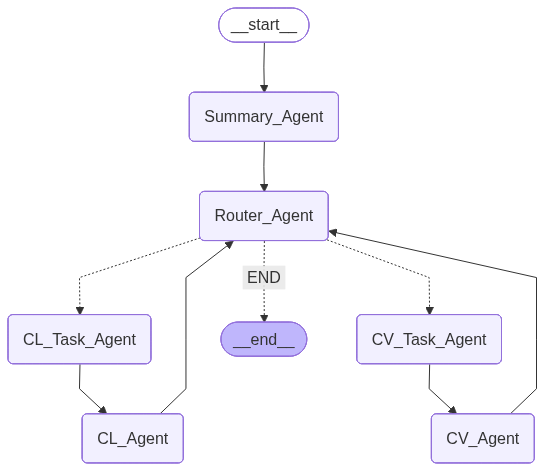
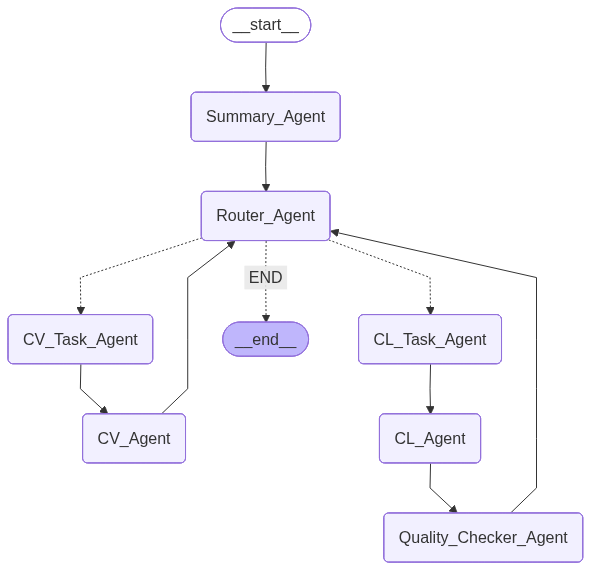
Added quality checker for CL pathway

diff --git a/src/loader.py b/src/loader.py
@@ -122,7 +122,8 @@ class DataLoader():
         return True
 
     def build_vectorstore(self, embeddings: OpenAIEmbeddings | None = None):
-        print("* Building vectorstore")
+        print(f"{'='*60}\nBuilding Vectorstore")
+
         # Create embeddings
         if embeddings is None:
             embeddings = OpenAIEmbeddings(api_key=os.getenv("OPENAI_API_KEY"))
@@ -171,7 +172,7 @@ class DataLoader():
         with open(metadata_path, "w", encoding="utf-8") as f:
             json.dump(db_metadata, f, indent=4)
 
-        print("-- Success")
+        print("-- Success\n","="*60)
 
         return vectorstore
 

diff --git a/src/agents.py b/src/agents.py
@@ -19,7 +19,7 @@ class Agent:
         name,
         prompt_path: os.PathLike,
         system_prompt_path="prompts/sys/system.txt",
-        model_name: str = "gpt-5",
+        model_name: str = "gpt-5.1",
         temperature: float = 0.8,
         tools = None,
         top_p = 1,
